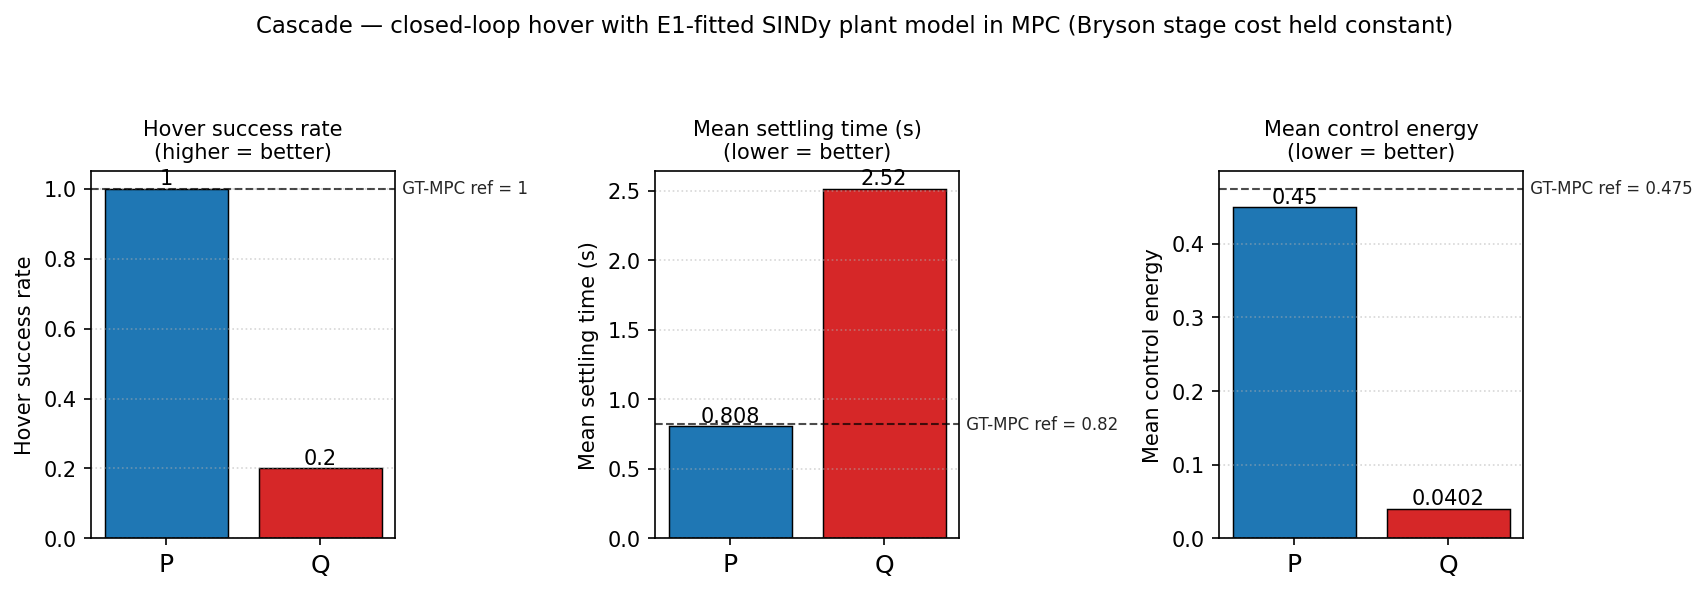
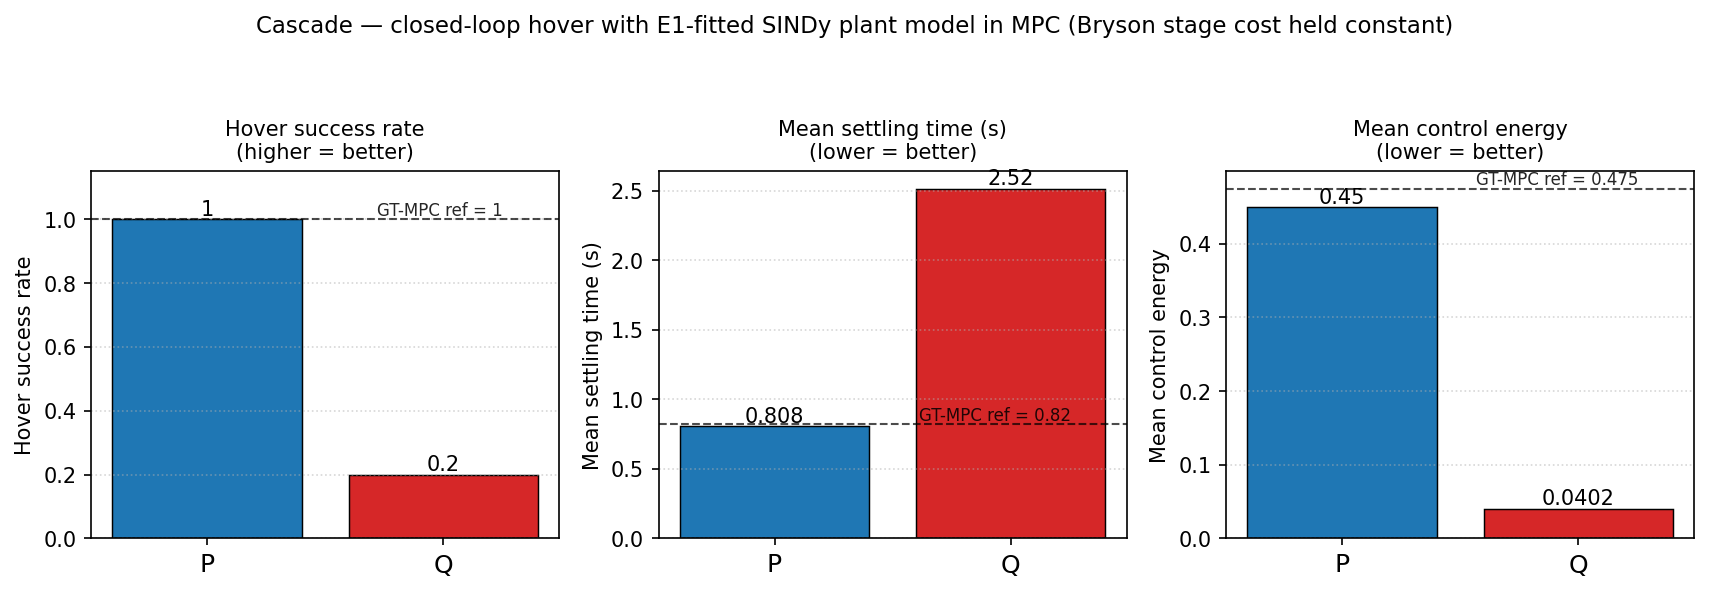
Resolve label/legend/annotation occlusion in report figures
Cascade success-rate labels, cost/latency x-axis sub-labels, and the E2 prompt-leak annotations no longer overlap data or one another.

diff --git a/scripts/figure_e2_prompt_leak.py b/scripts/figure_e2_prompt_leak.py
@@ -96,21 +96,33 @@ def main() -> None:
     e_old_max = max(energy_old)
     e_clean_max = max(energy_clean)
     e_ymax = max(e_old_max, e_clean_max)
-    axes[0].annotate(
+    ax0 = axes[0]
+    # Compute ylim top that the code will apply after this block.
+    _ymin0, _ymax0 = ax0.get_ylim()
+
+    # Orange: Q-OLD = Bryson char-for-char (bar top at y=0.475).
+    # Place text above P-OLD bar top (1.11), centred between B and P groups.
+    # At x=0.5 the nearest bar edges are B-CLEAN right=0.175 and P-OLD left=0.825
+    # so there is 0.65 data-units of horizontal clearance — enough for 3-line text.
+    ax0.annotate(
         "Q under OLD prompt\nreproduces Bryson\nchar-for-char",
         xy=(2 - width/2, energy_old[2]),
-        xytext=(0.55, e_ymax * 0.78),
-        fontsize=8.5, color="#a14a00", ha="left", va="center",
+        xytext=(0.50, 1.25),
+        fontsize=8.5, color="#a14a00", ha="center", va="bottom",
         arrowprops=dict(arrowstyle="->", color="#a14a00", lw=0.8,
-                        connectionstyle="arc3,rad=-0.2"),
+                        connectionstyle="arc3,rad=-0.25"),
     )
-    axes[0].annotate(
+
+    # Blue: Q-CLEAN = 5.46×B (bar top at y=2.59).
+    # Place text in the empty air above P group, well left of Q-CLEAN bar:
+    # x ≈ 0.9 (gap between P-OLD right edge and Q-OLD left edge), y ≈ 2.05.
+    ax0.annotate(
         "Q under CLEAN\nlocks onto a different\nfixed cost (5.46$\\times$B)",
         xy=(2 + width/2, energy_clean[2]),
-        xytext=(0.95, e_ymax * 0.45),
-        fontsize=8.5, color="#1d3a8a", ha="left", va="center",
+        xytext=(0.90, 2.00),
+        fontsize=8.5, color="#1d3a8a", ha="left", va="bottom",
         arrowprops=dict(arrowstyle="->", color="#1d3a8a", lw=0.8,
-                        connectionstyle="arc3,rad=0.2"),
+                        connectionstyle="arc3,rad=0.20"),
     )
 
     fig.suptitle(

diff --git a/scripts/figure_cascade.py b/scripts/figure_cascade.py
@@ -23,6 +23,7 @@ import matplotlib
 
 matplotlib.use("Agg")
 import matplotlib.pyplot as plt
+import matplotlib.transforms as mtransforms
 import numpy as np
 
 
@@ -61,7 +62,7 @@ def main() -> None:
     fig, axes = plt.subplots(1, 3, figsize=(11.5, 4.0))
 
     metric_specs = [
-        ("hover_success_rate", "Hover success rate", (0, 1.05),
+        ("hover_success_rate", "Hover success rate", (0, 1.15),
          "(higher = better)"),
         ("mean_settling_time_s", "Mean settling time (s)", None,
          "(lower = better)"),
@@ -103,11 +104,17 @@ def main() -> None:
                     ref_v, color="black", linestyle="--", linewidth=1.0,
                     alpha=0.7,
                 )
+                # Blend axes-x (fraction) with data-y so the label always
+                # sits at the right edge of the axes interior without
+                # getting clipped by bbox_inches="tight".
+                trans = mtransforms.blended_transform_factory(
+                    ax.transAxes, ax.transData
+                )
                 ax.text(
-                    len(conditions) - 0.5, ref_v,
-                    f" GT-MPC ref = {ref_v:.3g}",
-                    ha="left", va="center", fontsize=8, color="black",
-                    alpha=0.85,
+                    0.88, ref_v,
+                    f"GT-MPC ref = {ref_v:.3g}",
+                    ha="right", va="bottom", fontsize=8, color="black",
+                    alpha=0.85, transform=trans,
                 )
 
         # Annotate values + build-failed markers

diff --git a/scripts/figure_cost_latency.py b/scripts/figure_cost_latency.py
@@ -78,10 +78,10 @@ def main() -> None:
     # Per-experiment LLM-call timing (seconds). Pull from headline CSVs +
     # multi-seed gap-fill CSVs to get robust means.
     src = {
-        "E1\nSINDy basis": [
+        "E1\nSINDy\nbasis": [
             REPO_ROOT / "results" / "e1_results.csv",
         ],
-        "E2\nMPC cost": [
+        "E2\nMPC\ncost": [
             REPO_ROOT / "results" / "e3_results_clean.csv",
         ],
         "E3\nKoopman": [
